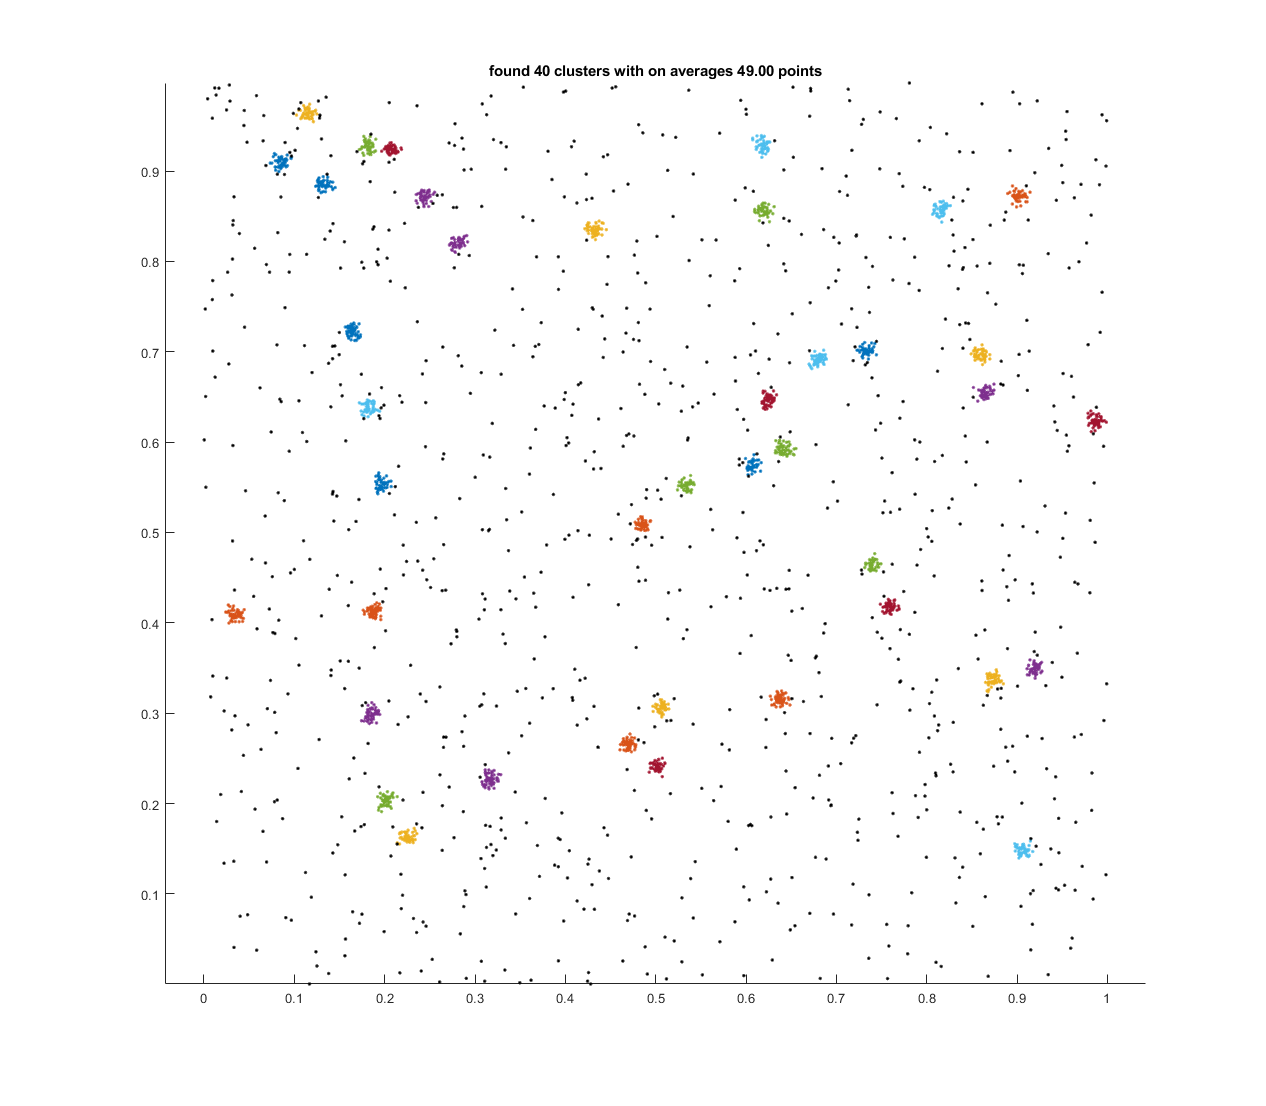
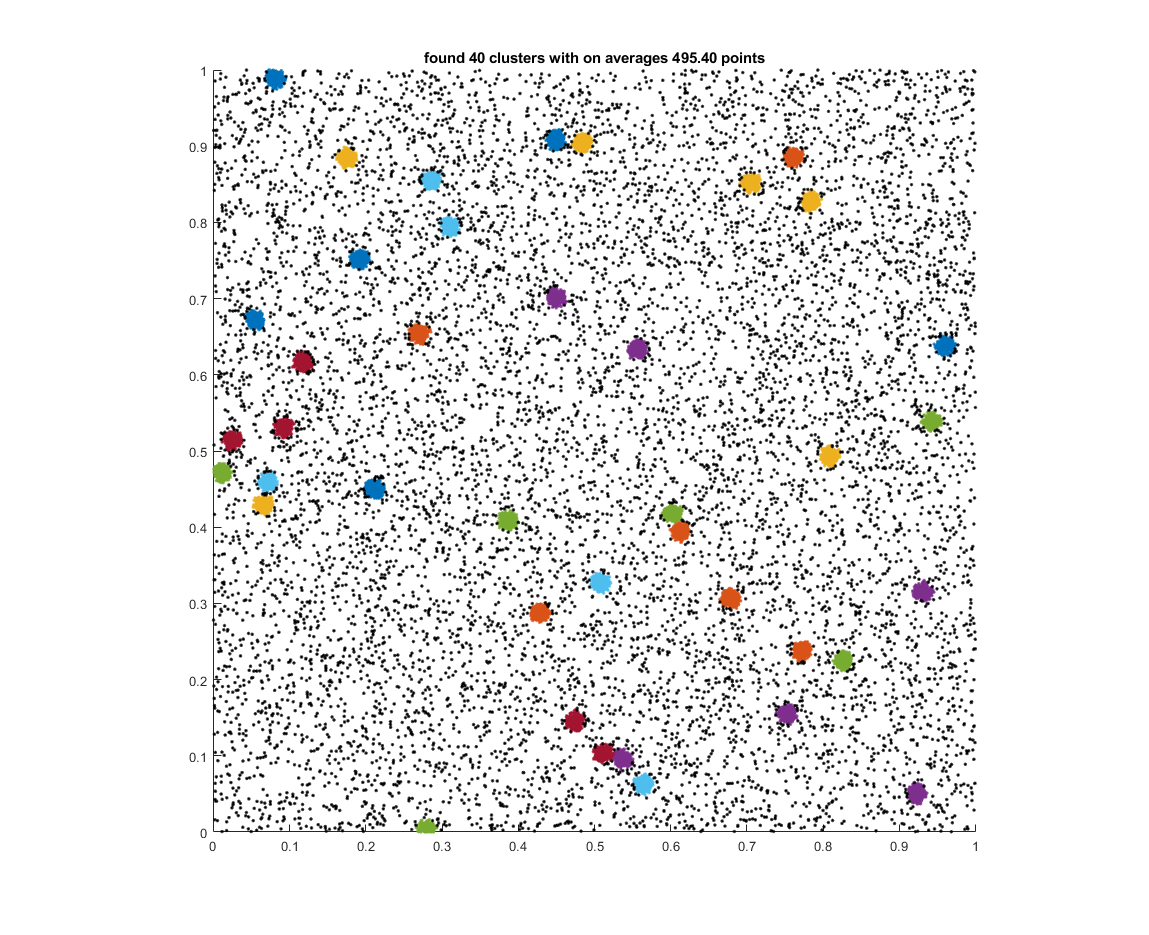
update example to process 30k localizations.

Changed region(s): [[0.1218, 0.031, 0.8834, 0.9305], [0.1218, 0.6203, 0.1523, 0.6513], [0.1218, 0.4652, 0.1523, 0.4963]]

diff --git a/fdbscan_example.m b/fdbscan_example.m
@@ -1,20 +1,19 @@
 %generate data
-rndpts = 1E3;
+rndpts = 1E4;
 cluster = 40;
-pt_cluster = 50;
+pt_cluster = 500;
 d_cluster = repmat(0.005,[1,cluster]);
 xy = nan(rndpts+cluster*pt_cluster,2);
 xy(1:rndpts,:)=rand(rndpts,2);
 for ct = 1:cluster
     start = rndpts+1+(ct-1)*pt_cluster;
     finish = start+pt_cluster-1;
-    ct
-    loc = rand(1,2)
+    loc = rand(1,2);
     xy(start:finish,:)=randn(pt_cluster,2)*d_cluster(ct)+loc;
 end
 
 %fdbscan
-tic;class=fdbscan(xy,10,0.0065);toc
+tic;class=fdbscan(xy,10,0.0035);toc
 figure(1);clf;hold on;
 Ncl = max(class);
 pts=nan(1,Ncl);
@@ -23,5 +22,5 @@ for ct = 1:Ncl
     pts(ct) = sum(class==ct);
 end
 plot(xy(class==0,1),xy(class==0,2),'k.');
-axis equal
+axis([0 1 0 1])
 title(sprintf('found %d clusters with on averages %.2f points',Ncl,mean(pts)))
